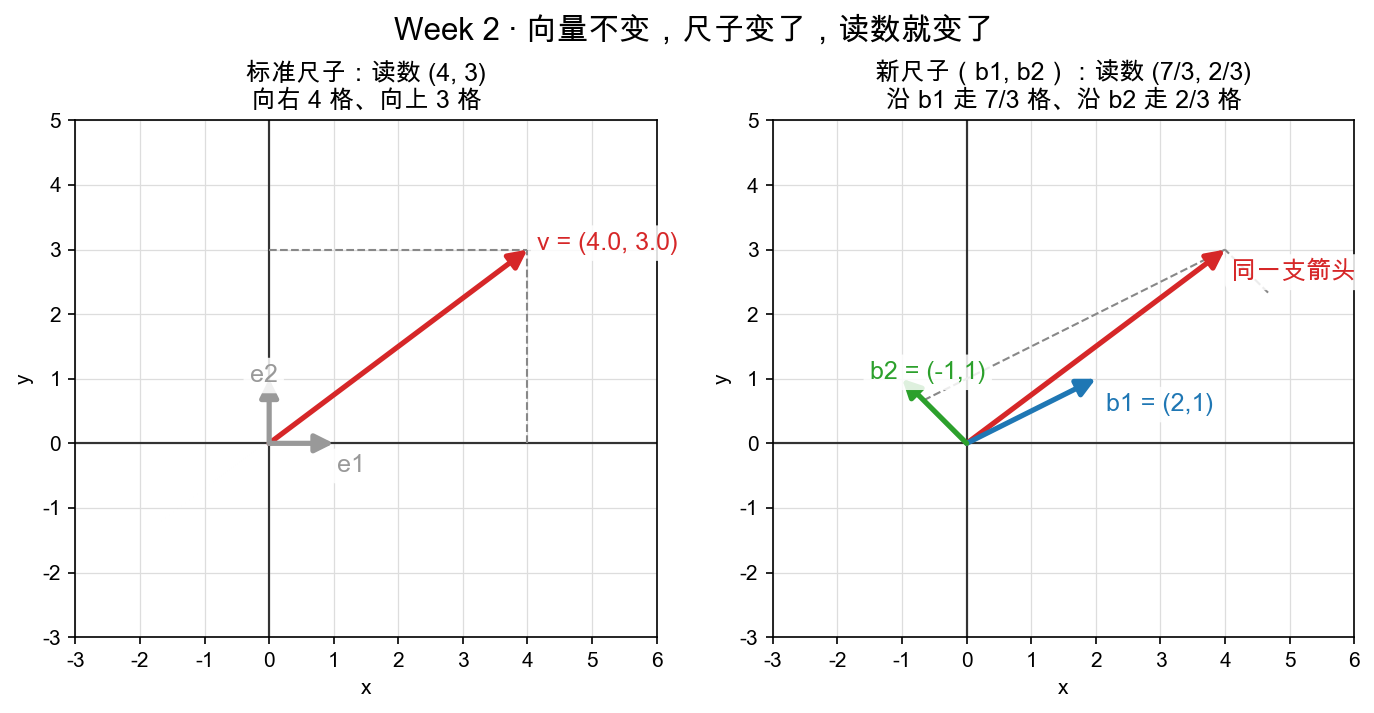
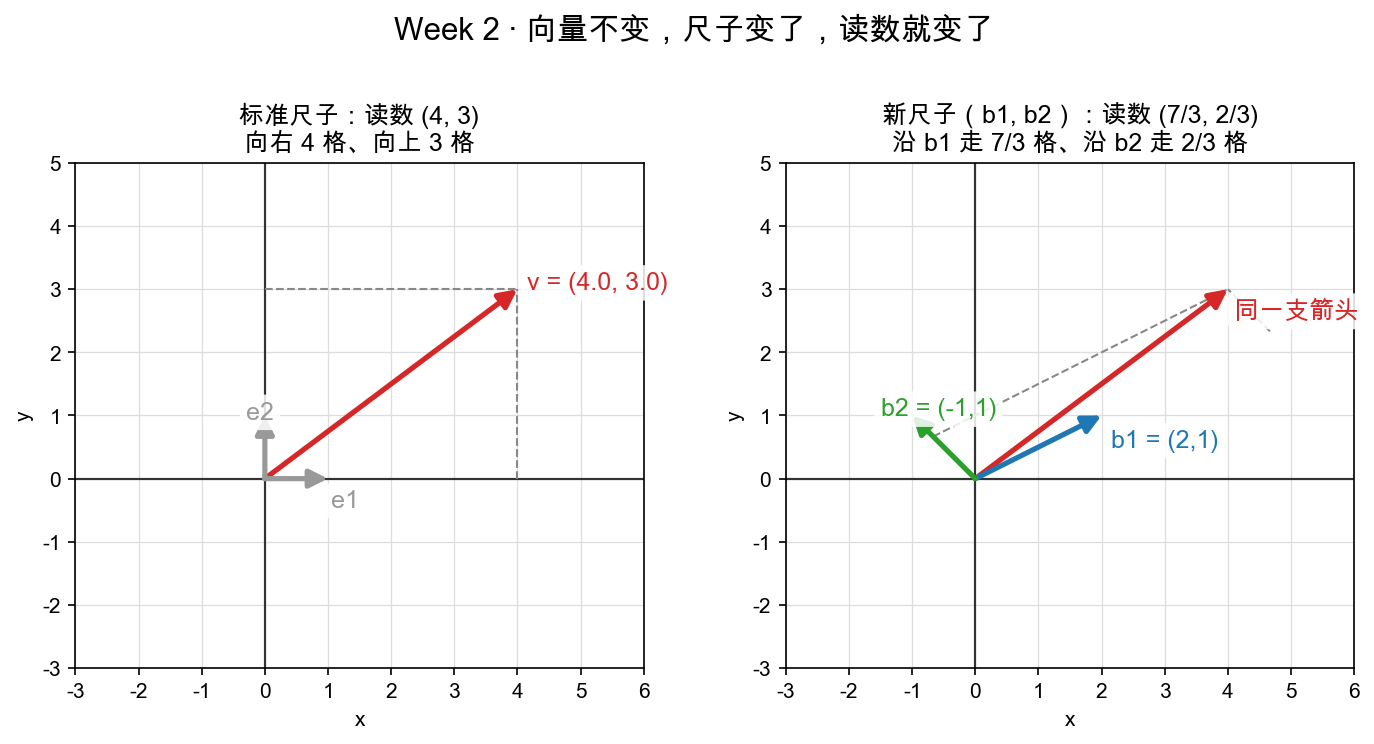
配图标题防重叠：suptitle 与子图标题拉开净空（9 张图）

diff --git a/figures/gen_w2d3_two_bases.py b/figures/gen_w2d3_two_bases.py
@@ -46,5 +46,6 @@ ax2.plot([sb1[0], v[0]], [sb1[1], v[1]], color="#888888", lw=1, ls="--")
 ax2.plot([tb2[0], v[0]], [tb2[1], v[1]], color="#888888", lw=1, ls="--")
 ax2.set_title(f"新尺子（b1, b2）：读数 ({s_frac}, {t_frac})\n沿 b1 走 {s_frac} 格、沿 b2 走 {t_frac} 格", fontsize=12)
 
-fig.suptitle("Week 2 · 向量不变，尺子变了，读数就变了", fontsize=15)
+fig.suptitle("Week 2 · 向量不变，尺子变了，读数就变了", fontsize=15, y=0.99)
+fig.subplots_adjust(top=0.80, wspace=0.25)
 save(fig, "w2d3_two_bases.png")

diff --git a/figures/gen_w3d3_compose.py b/figures/gen_w3d3_compose.py
@@ -37,5 +37,6 @@ vec(ax2, (0, 0), fin2, color=C_RED, label="再旋转 45°",
     label_at_tip=True, label_offset=(0.05, 0.15))
 ax2.set_title("先拉伸，再旋转\n(S 后 R：R@S)", fontsize=13)
 
-fig.suptitle("Week 3 · 穿袜子再穿鞋 ≠ 穿鞋再穿袜子\n矩阵乘法 A@B = “B 先动，A 后动”", fontsize=15)
+fig.suptitle("Week 3 · 穿袜子再穿鞋 ≠ 穿鞋再穿袜子\n矩阵乘法 A@B = “B 先动，A 后动”", fontsize=15, y=0.99)
+fig.subplots_adjust(top=0.78, wspace=0.22)
 save(fig, "w3d3_compose.png")

diff --git a/figures/gen_w6d4_attention_heatmap.py b/figures/gen_w6d4_attention_heatmap.py
@@ -36,5 +36,6 @@ for i in range(len(words)):
         ax2.text(j, i, f"{weights[i][j]:.2f}", ha="center", va="center",
                  fontsize=9, color="white" if weights[i][j] > 0.5 else "#333333")
 
-fig.suptitle("Week 6 · 注意力矩阵：第 i 行 = 第 i 个词“看”整句话的分配方案", fontsize=15)
+fig.suptitle("Week 6 · 注意力矩阵：第 i 行 = 第 i 个词“看”整句话的分配方案", fontsize=15, y=0.99)
+fig.subplots_adjust(top=0.82, wspace=0.28)
 save(fig, "w6d4_attention_heatmap.png")

diff --git a/figures/gen_w4d2_relative_motion.py b/figures/gen_w4d2_relative_motion.py
@@ -41,5 +41,6 @@ ax2.text(2.7, 1.4, "新尺子读数 = (2,3)\n（x 单位缩到 1/2，y 缩到 1/
          zorder=6)
 ax2.set_title("方式二：尺子动\n刻度变细，点的读数自然变成 (2,3)", fontsize=13)
 
-fig.suptitle("Week 4 · 运动是相对的：变换对象 等价于 变换坐标系", fontsize=15)
+fig.suptitle("Week 4 · 运动是相对的：变换对象 等价于 变换坐标系", fontsize=15, y=0.99)
+fig.subplots_adjust(top=0.80, wspace=0.25)
 save(fig, "w4d2_relative_motion.png")

diff --git a/figures/gen_w6d5_rope_rotation.py b/figures/gen_w6d5_rope_rotation.py
@@ -51,5 +51,7 @@ for d, s in zip(diffs, scores):
         ax2.annotate(f"{s:.2f}", (d, s), textcoords="offset points",
                      xytext=(0, 10), ha="center", fontsize=10)
 
-fig.suptitle("Week 6 · RoPE：用旋转矩阵给词排队，位置信息藏进夹角里", fontsize=15)
+fig.suptitle("Week 6 · RoPE：用旋转矩阵给词排队，位置信息藏进夹角里",
+             fontsize=15, y=0.99)
+fig.subplots_adjust(top=0.84, wspace=0.28)
 save(fig, "w6d5_rope_rotation.png")

diff --git a/figures/gen_w4d1_two_readings.py b/figures/gen_w4d1_two_readings.py
@@ -35,5 +35,6 @@ point(ax2, (2, 3), color=C_RED, label="新尺子读数 (1,1)\n= 标准读数 (2,
       label_offset=(0.3, 0.3))
 ax2.set_title("读法 2：坐标系\nM 的列向量 = 两根新坐标轴", fontsize=13)
 
-fig.suptitle("Week 4 · 变换点，还是变换尺子？—— 结果一样", fontsize=15)
+fig.suptitle("Week 4 · 变换点，还是变换尺子？—— 结果一样", fontsize=15, y=0.99)
+fig.subplots_adjust(top=0.80, wspace=0.22)
 save(fig, "w4d1_two_readings.png")

diff --git a/figures/gen_w3d1_transforms.py b/figures/gen_w3d1_transforms.py
@@ -35,5 +35,6 @@ for ax, (title, M, lim) in zip(axs, transforms):
             bbox=dict(boxstyle="round,pad=0.15", fc="white", ec="none", alpha=0.8))
     ax.set_title(title, fontsize=13)
 
-fig.suptitle("Week 3 · 矩阵乘向量 = 对整个图形施加一次变换", fontsize=15)
+fig.suptitle("Week 3 · 矩阵乘向量 = 对整个图形施加一次变换", fontsize=15, y=0.99)
+fig.subplots_adjust(top=0.80, wspace=0.25)
 save(fig, "w3d1_transforms.png")

diff --git a/figures/gen_w6d3_softmax.py b/figures/gen_w6d3_softmax.py
@@ -34,5 +34,6 @@ for b, w in zip(bars2, weights):
 ax2.text(0.98, 0.93, "0.01 + 0.05 + 0.94 = 1.00", transform=ax2.transAxes,
          fontsize=12, color="#333333", ha="right", va="top")
 
-fig.suptitle("Week 6 · softmax：分数最大的分到几乎全部注意力", fontsize=15)
+fig.suptitle("Week 6 · softmax：分数最大的分到几乎全部注意力", fontsize=15, y=0.99)
+fig.subplots_adjust(top=0.82, wspace=0.28)
 save(fig, "w6d3_softmax.png")

diff --git a/figures/gen_w8d6_decision_boundary.py b/figures/gen_w8d6_decision_boundary.py
@@ -42,5 +42,6 @@ ax2.yaxis.set_major_formatter(
 )
 ax2.tick_params(axis="y", labelsize=9)
 
-fig.suptitle("Week 8 · 大结业：用 numpy 从零训练的两层网络学会了 XOR", fontsize=15)
+fig.suptitle("Week 8 · 大结业：用 numpy 从零训练的两层网络学会了 XOR", fontsize=15, y=0.99)
+fig.subplots_adjust(top=0.80, wspace=0.3)
 save(fig, "w8d6_decision_boundary.png")
